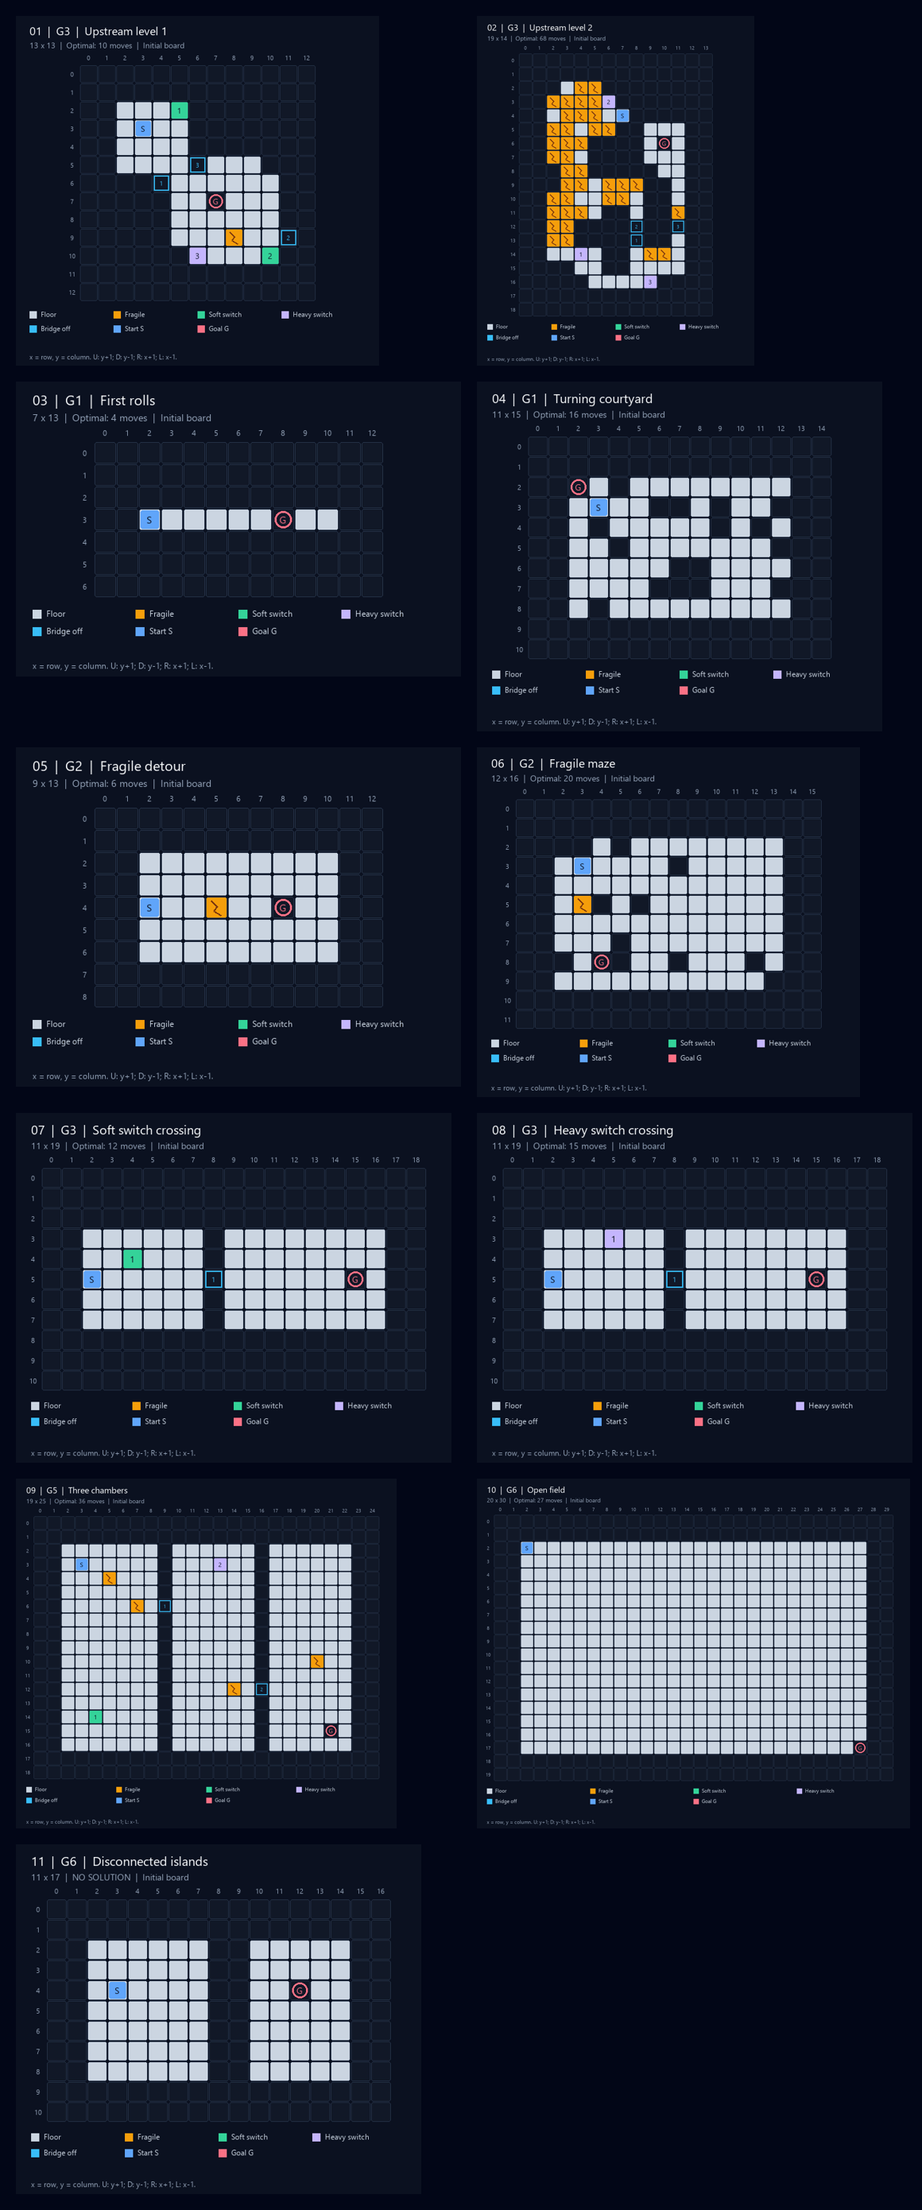
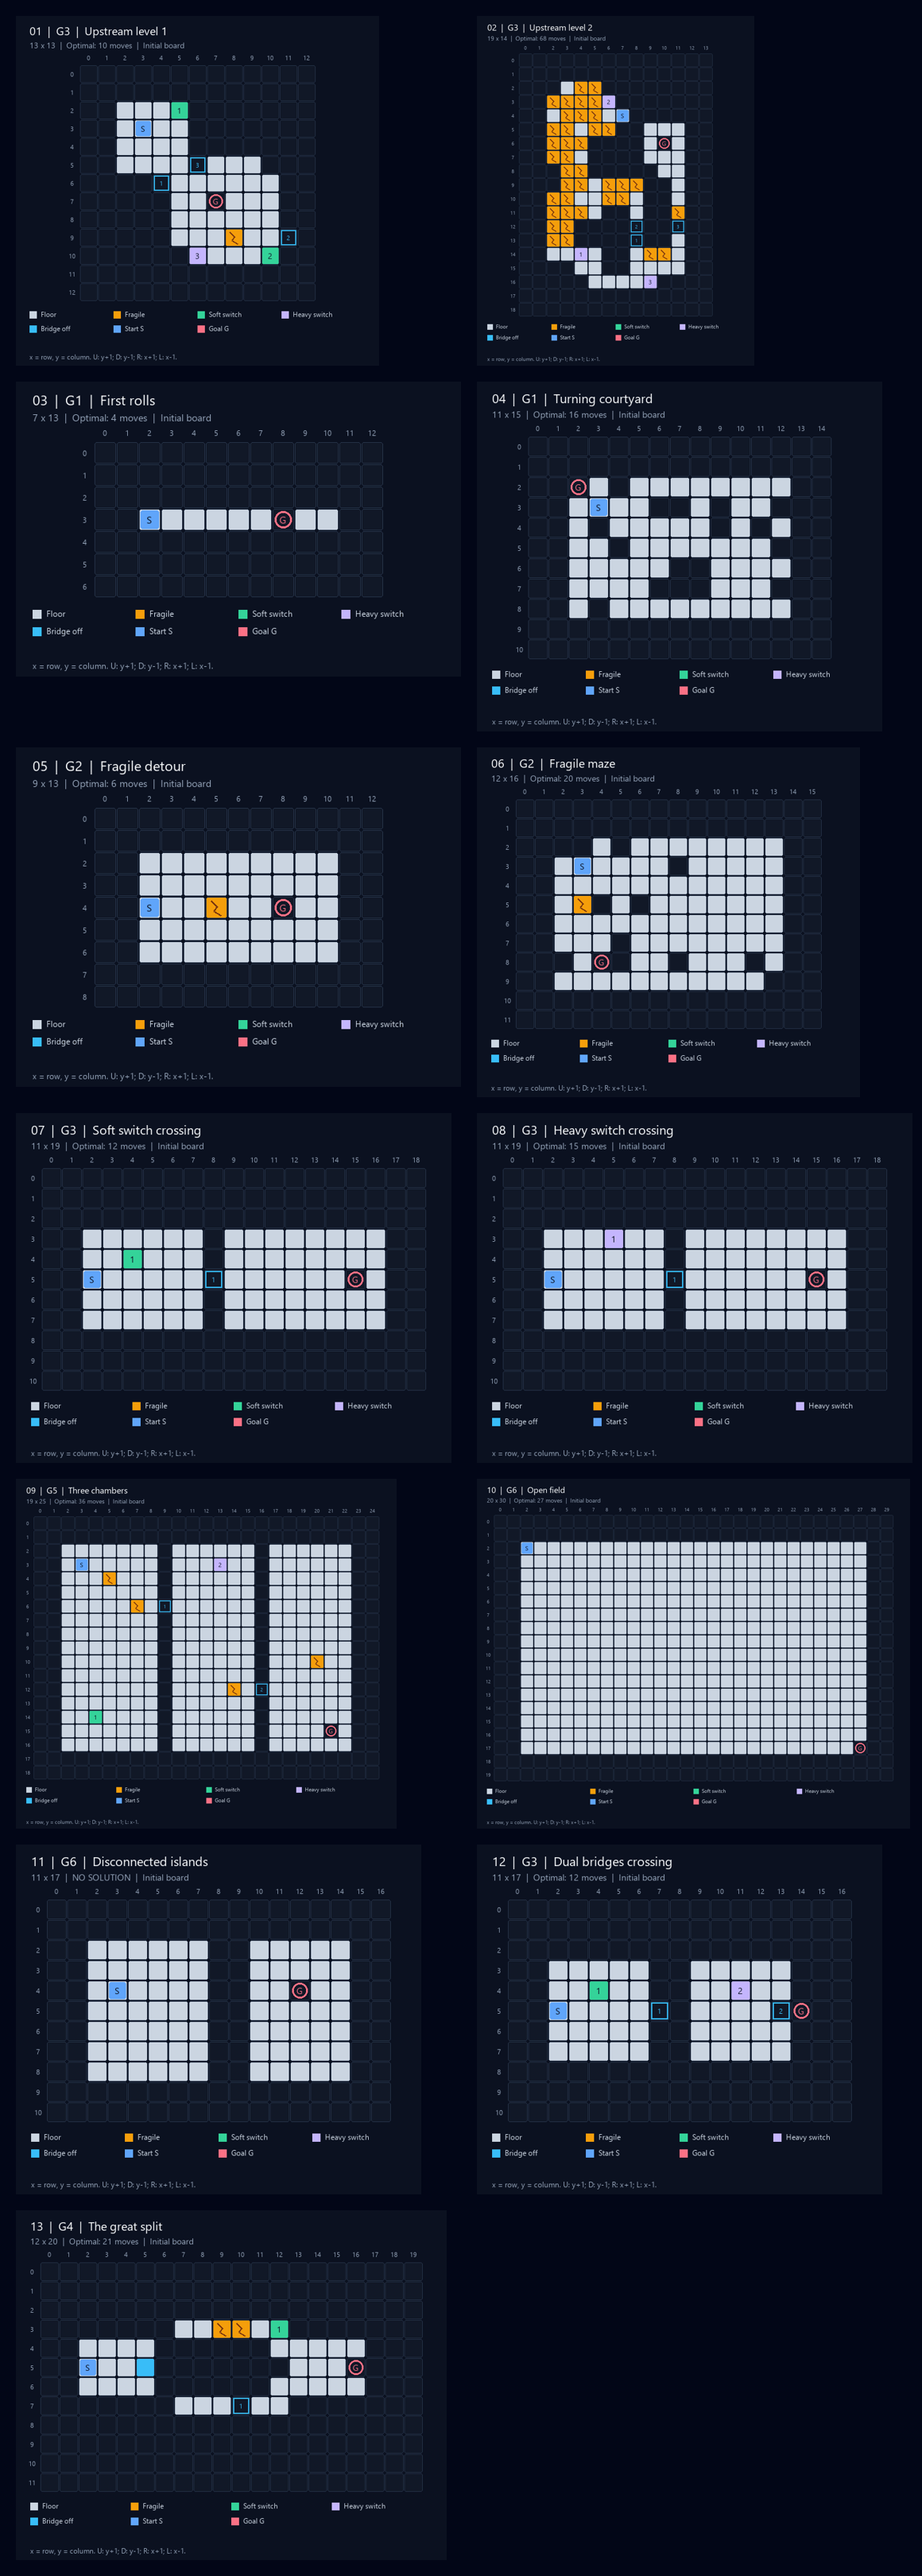
test(levels): update catalog and certify optimal paths for levels 12 and 13

diff --git a/ai/problem.py b/ai/problem.py
@@ -257,7 +257,8 @@ class BloxorzProblem:
         state, outcome = self.initial_state(), Outcome.CONTINUE
         steps = 0
         for steps, a in enumerate(moves, start=1):
-            if a not in ACTIONS:
+            valid_actions = SPLIT_ACTIONS if state.is_split else ACTIONS
+            if a not in valid_actions:
                 raise ValueError(f"Nước đi không hợp lệ: {a!r}")
             state, outcome = self.simulate(state, a)
             if outcome is not Outcome.CONTINUE:
